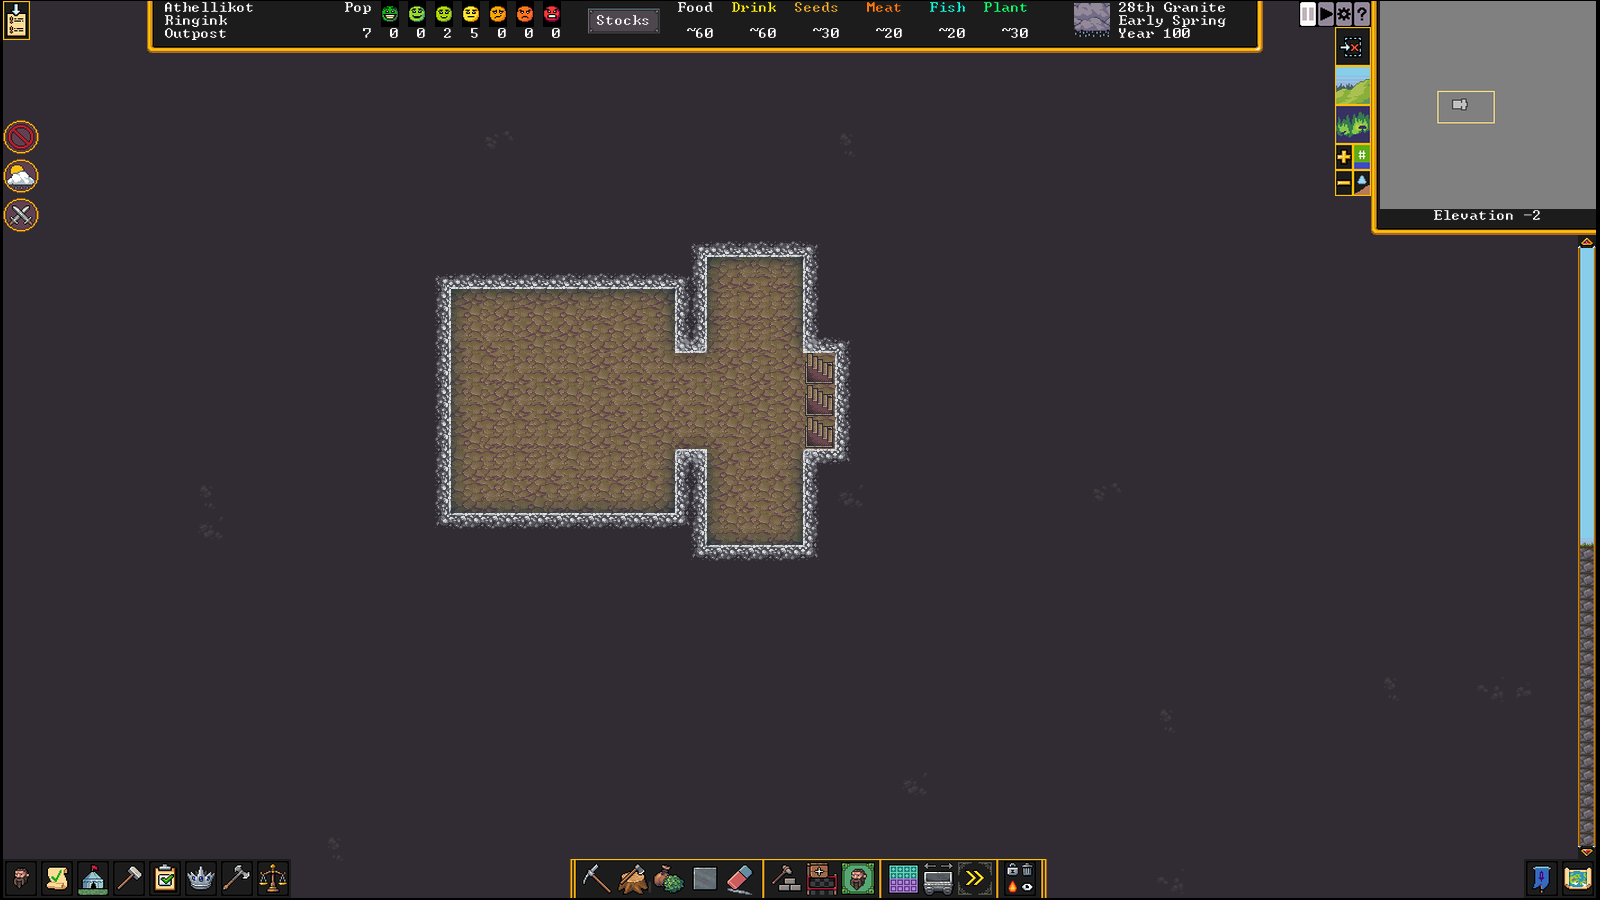
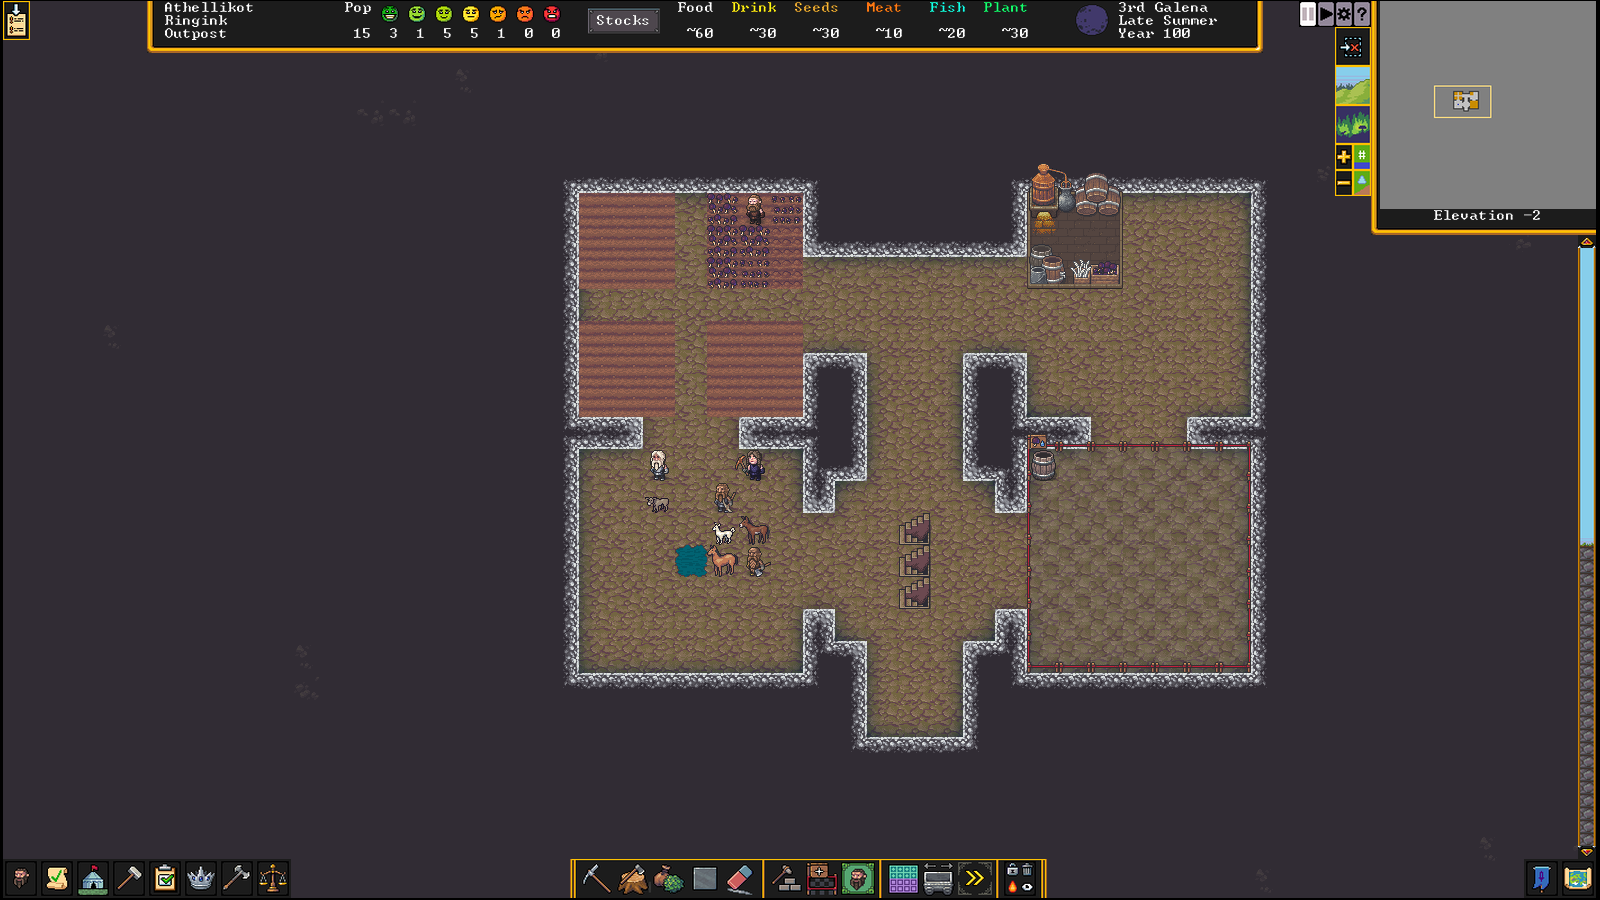
Fixing Dwarf Fortress notes

diff --git a/dwarf-fortress-notes.md b/dwarf-fortress-notes.md
@@ -61,7 +61,11 @@ are adjacent to a water tile, regardless of whether the water tile is on the
 same z-level or not). Also note that water can flow diagonally."
 * After creating the entrance hall I started the beginnings of hallways going
 in the cardinal directions and a temporary meeting area, which should be at
-least 5x5 to prevent animals from fighting in a crowded area:
+least 5x5 to prevent animals from fighting in a crowded area. The picture
+below shows what the area looks like after further development. There is a
+meeting area in the southwest, a farming area in the northwest, a food and
+drink workshop area in the northeast (with only a still currently) and a food
+stockpile in the southeast:
 ![Z-level -2 beginnings](df-z-level-negative-2.png)
 * Multiple zones can overlap, unlike stockpiles.
 * Make a stockpile for refuse on the surface *at least* 5x5 in size. Refuse
